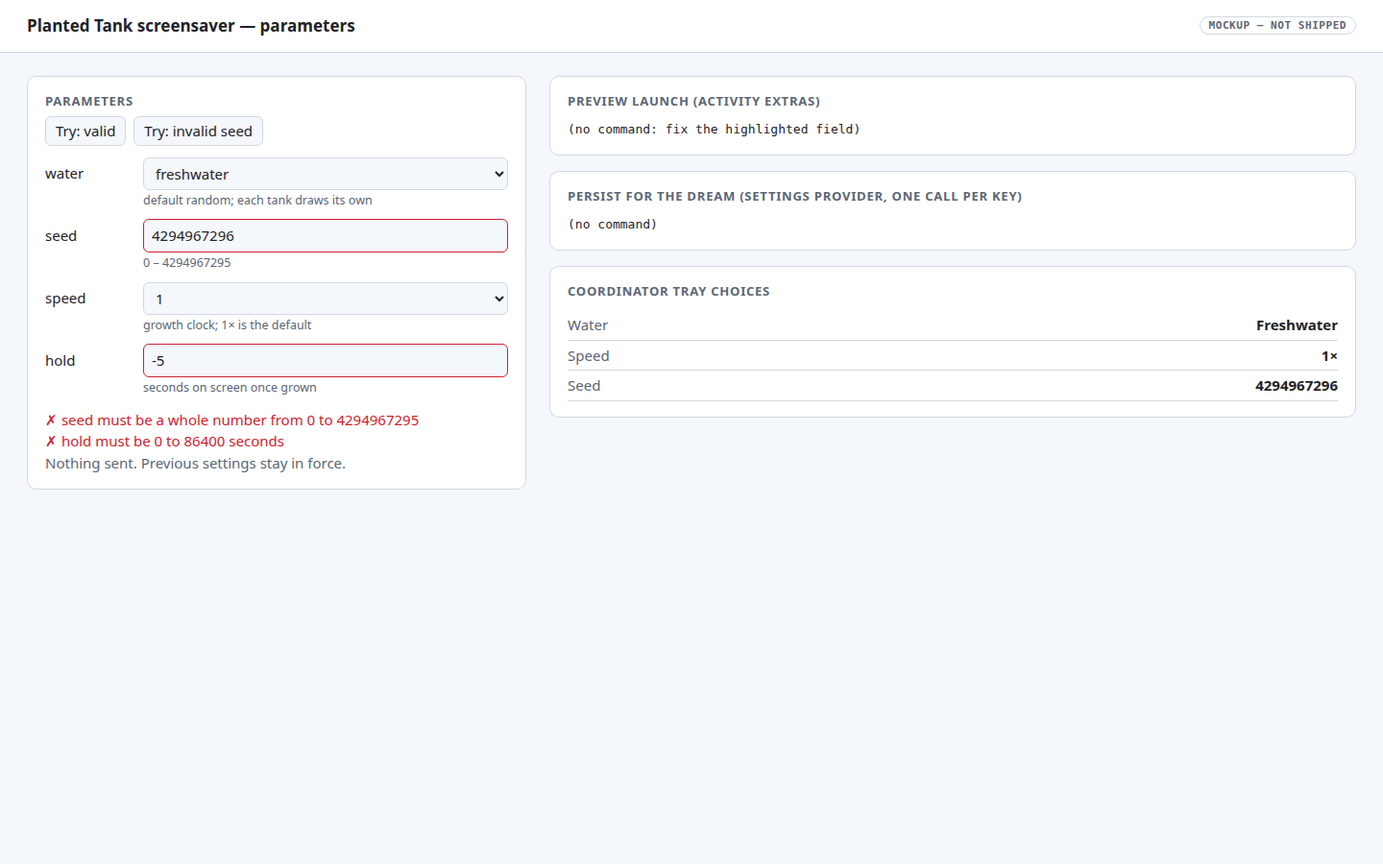
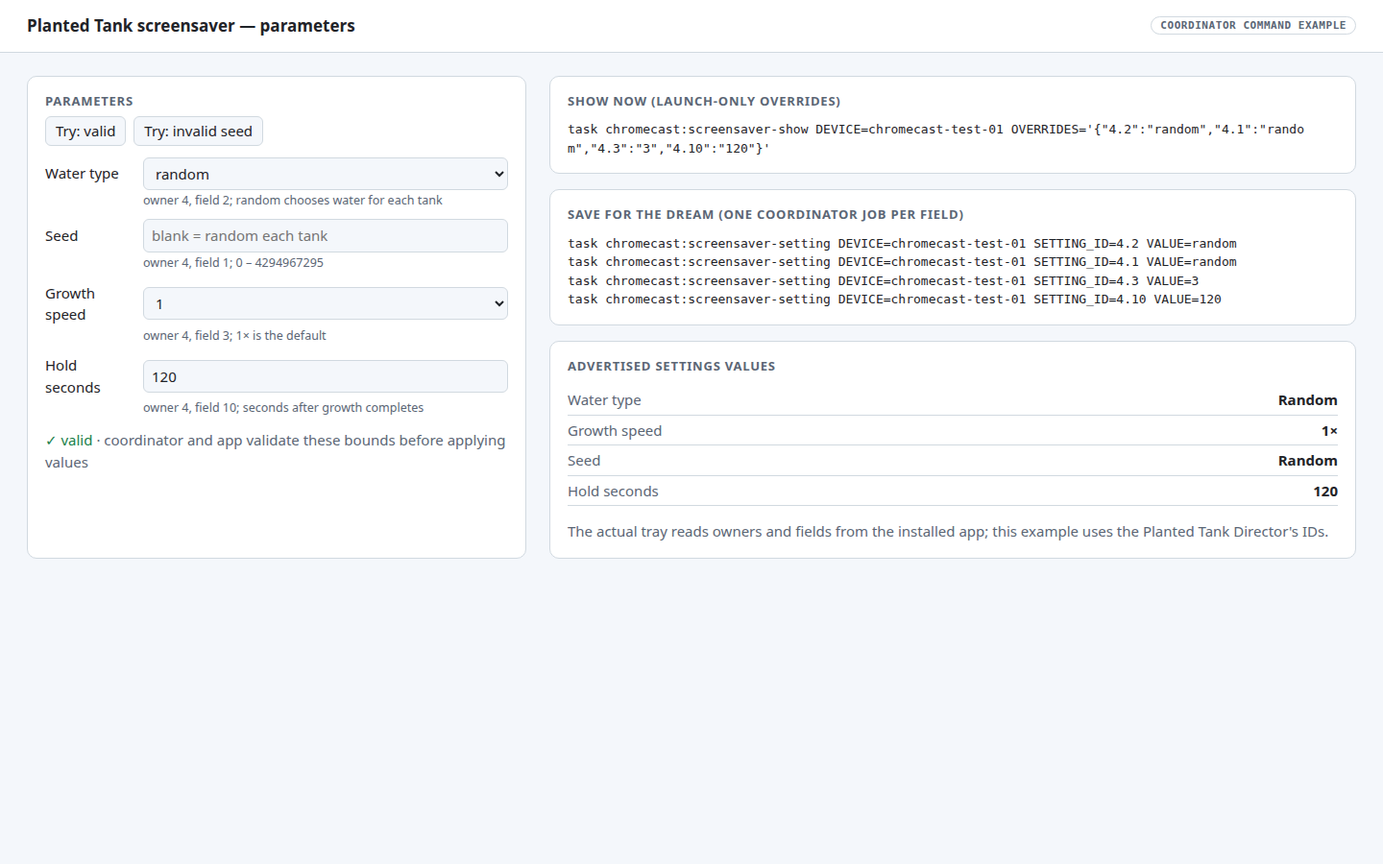
docs: refresh planted tank verification status

diff --git a/docs/plans/2026-10-21-planted-tank-screensaver/parameters.html b/docs/plans/2026-10-21-planted-tank-screensaver/parameters.html
@@ -12,32 +12,34 @@ code,pre{font:13px/1.5 ui-monospace,SFMono-Regular,Menlo,monospace}
 .row{display:grid;grid-template-columns:90px 1fr;gap:4px 12px;align-items:center;margin-bottom:10px}.row small{grid-column:2;color:var(--muted);margin-top:-2px}
 input:not([type=checkbox]),select{font:inherit;background:var(--bg);color:var(--fg);border:1px solid var(--line);border-radius:6px;padding:5px 8px;width:100%}input.bad{border-color:var(--bad)}
 pre{margin:0;white-space:pre-wrap;word-break:break-all}button{font:inherit;background:var(--bg);color:var(--fg);border:1px solid var(--line);border-radius:6px;padding:3px 10px;cursor:pointer}.chk{display:flex;gap:8px;align-items:center}.ok{color:var(--ok)}.bad{color:var(--bad)}
-.tr{display:flex;justify-content:space-between;padding:4px 0;border-bottom:1px solid var(--line)}.tr b{color:var(--fg)}</style></head><body><header><h1>Planted Tank screensaver — parameters</h1><span class="tag">MOCKUP — NOT SHIPPED</span></header><main style="display:grid;grid-template-columns:520px 1fr;gap:24px">
+.tr{display:flex;justify-content:space-between;padding:4px 0;border-bottom:1px solid var(--line)}.tr b{color:var(--fg)}</style></head><body><header><h1>Planted Tank screensaver — parameters</h1><span class="tag">COORDINATOR COMMAND EXAMPLE</span></header><main style="display:grid;grid-template-columns:520px 1fr;gap:24px">
 <div class="card"><h2>Parameters</h2><div style="display:flex;gap:8px;margin:-4px 0 12px"><button id="tv" type="button">Try: valid</button><button id="ti" type="button">Try: invalid seed</button></div>
- <div class="row"><label for="water">water</label><select id="water"><option>random</option><option>freshwater</option><option>saltwater</option></select><small>default random; each tank draws its own</small></div>
- <div class="row"><label for="seed">seed</label><input id="seed" placeholder="blank = random each tank" inputmode="numeric"><small>0 – 4294967295</small></div>
- <div class="row"><label for="speed">speed</label><select id="speed"><option>0.25</option><option>0.5</option><option selected>1</option><option>2</option><option>4</option><option>8</option></select><small>growth clock; 1× is the default</small></div>
- <div class="row"><label for="hold">hold</label><input id="hold" value="120"><small>seconds on screen once grown</small></div>
+ <div class="row"><label for="water">Water type</label><select id="water"><option>random</option><option>freshwater</option><option>saltwater</option></select><small>owner 4, field 2; random chooses water for each tank</small></div>
+ <div class="row"><label for="seed">Seed</label><input id="seed" placeholder="blank = random each tank" inputmode="numeric"><small>owner 4, field 1; 0 – 4294967295</small></div>
+ <div class="row"><label for="speed">Growth speed</label><select id="speed"><option>0.25</option><option>0.5</option><option selected>1</option><option>2</option><option>4</option><option>8</option></select><small>owner 4, field 3; 1× is the default</small></div>
+ <div class="row"><label for="hold">Hold seconds</label><input id="hold" value="120"><small>owner 4, field 10; seconds after growth completes</small></div>
  <p id="err" style="margin:12px 0 0;min-height:44px"></p></div>
 <div style="display:grid;gap:16px;align-content:start">
- <div class="card"><h2>Preview launch (activity extras)</h2><pre id="am"></pre></div>
- <div class="card"><h2>Persist for the Dream (settings provider, one call per key)</h2><pre id="cc"></pre></div>
- <div class="card"><h2>Coordinator tray choices</h2><div id="tray" class="muted"></div></div>
+ <div class="card"><h2>Show now (launch-only overrides)</h2><pre id="am"></pre></div>
+ <div class="card"><h2>Save for the Dream (one coordinator job per field)</h2><pre id="cc"></pre></div>
+ <div class="card"><h2>Advertised Settings values</h2><div id="tray" class="muted"></div><p class="muted" style="margin-bottom:0">The actual tray reads owners and fields from the installed app; this example uses the Planted Tank Director's IDs.</p></div>
 </div></main><script>
-const $=i=>document.getElementById(i);const PKG='org.worldfoundry.plantedtank';
+const $=i=>document.getElementById(i);const DEVICE='chromecast-test-01';
+const waterIds={random:'random',freshwater:'0',saltwater:'1'};
+const speedIds={'0.25':'1','0.5':'2','1':'3','2':'4','4':'5','8':'6'};
 function intOk(v,lo,hi){return /^\d{1,10}$/.test(v)&&+v>=lo&&+v<=hi}
 function draw(){const e=[],w=$('water').value,seed=$('seed').value.trim(),hold=$('hold').value.trim();
  ['seed','hold'].forEach(i=>$(i).classList.remove('bad'));
  if(seed&&!intOk(seed,0,4294967295)){e.push('seed must be a whole number from 0 to 4294967295');$('seed').classList.add('bad')}
  if(!intOk(hold,0,86400)){e.push('hold must be 0 to 86400 seconds');$('hold').classList.add('bad')}
- const t=[['Water',w==='random'?'Random':w[0].toUpperCase()+w.slice(1)],['Speed',$('speed').value+'×'],['Seed',seed||'Random (CLI only)']];
- $('tray').innerHTML=t.map(r=>'<div class="tr"><span>'+r[0]+'</span><b>'+r[1]+'</b></div>').join('');
- if(e.length){$('err').innerHTML='<span class="bad">✗ '+e.join('<br>✗ ')+'</span><br><span class="muted">Nothing sent. Previous settings stay in force.</span>';$('am').textContent='(no command: fix the highlighted field)';$('cc').textContent='(no command)';return}
- $('err').innerHTML='<span class="ok">✓ valid</span> <span class="muted">· same checks run on the device, which rejects the call with the same message</span>';
- const kv=[['water',w],['speed',$('speed').value],['hold',hold]];if(seed)kv.push(['seed',seed]);
- const flag=([k,v])=>k==='seed'?'--el seed '+v:k==='speed'?'--ef speed '+v:k==='water'?'--es water '+v:'--ei '+k+' '+v;
- $('am').textContent='adb shell am start -n '+PKG+'/.PlantedTankActivity \\\n  '+kv.map(flag).join(' \\\n  ');
- $('cc').textContent=kv.map(([k,v])=>'adb shell content call --uri content://'+PKG+'.settings \\\n  --method setSetting --arg '+k+':'+v).join('\n');}
+ if(e.length){$('err').innerHTML='<span class="bad">✗ '+e.join('<br>✗ ')+'</span><br><span class="muted">Nothing sent. Previous settings stay in force.</span>';$('tray').textContent='Invalid values';$('am').textContent='(no command: fix the highlighted field)';$('cc').textContent='(no command)';return}
+ const values=[['Water type',w==='random'?'Random':w[0].toUpperCase()+w.slice(1)],['Growth speed',$('speed').value+'×'],['Seed',seed||'Random'],['Hold seconds',hold]];
+ $('tray').textContent='';values.forEach(([label,value])=>{const row=document.createElement('div'),name=document.createElement('span'),shown=document.createElement('b');row.className='tr';name.textContent=label;shown.textContent=value;row.appendChild(name);row.appendChild(shown);$('tray').appendChild(row)});
+ $('err').innerHTML='<span class="ok">✓ valid</span> <span class="muted">· coordinator and app validate these bounds before applying values</span>';
+ const wire=[['4.2',waterIds[w]],['4.1',seed||'random'],['4.3',speedIds[$('speed').value]],['4.10',hold]],overrides={};
+ wire.forEach(([id,value])=>{overrides[id]=value});
+ $('am').textContent='task chromecast:screensaver-show DEVICE='+DEVICE+' OVERRIDES=\''+JSON.stringify(overrides)+'\'';
+ $('cc').textContent=wire.map(([id,value])=>'task chromecast:screensaver-setting DEVICE='+DEVICE+' SETTING_ID='+id+' VALUE='+value).join('\n');}
 document.querySelectorAll('input,select').forEach(e=>e.addEventListener('input',draw));
 $('tv').onclick=()=>{$('water').value='saltwater';$('seed').value='713';$('speed').value='2';draw()};
 $('ti').onclick=()=>{$('water').value='freshwater';$('seed').value='4294967296';$('hold').value='-5';draw()};draw();</script></body></html>

diff --git a/docs/plans/2026-10-21-planted-tank-screensaver.md b/docs/plans/2026-10-21-planted-tank-screensaver.md
@@ -4,7 +4,7 @@ Date: 2026‑10‑21. Status (2026‑10‑22): **Phases 0–4b implemented; offl
 
 ## Context
 
-Two screensaver apps ship from `android/screensaver`: **Aquarium** (eight tanks, one drawn per Dream start) and **Seahorse Grid** (its own flavor, own icon, own one-level bundle). Will wants a third: **the planted tank on its own, with plants only and no animals**, growing from seedlings to a full canopy, staying up for two minutes, then starting a different tank. The icon and the TV banner both carry the World Foundry badge, like the other two.
+`android/screensaver` now builds three apps: **Aquarium** (eight tanks, one drawn per Dream start), **Seahorse Grid** (its own one-level bundle), and **Planted Tank** (plants only, no animals). Planted Tank grows from seedlings to a full canopy, stays up for two minutes, then starts a different tank. Its icon and TV banner carry the World Foundry badge. Planted Tank device verification remains pending.
 
 What is true today:
 
@@ -13,7 +13,7 @@ What is true today:
 - A Dream has **no command line**. The old `--plant-seed`, `--plant-water` and `--plant-speed` switches were deliberately **removed** ([command-line-switches.md](../command-line-switches.md#baseline-runtime-options)); plant values now come from the level's cooked `PlantedTankSettings` catalog, and "no replacement launch aliases" are provided. Parameters therefore have to arrive another way (see **Parameters**).
 - **The level can end itself.** A level writing mailbox `END_OF_LEVEL` (1905) = 1 ends it, and the `cd.iff` meta-loop in `game.cc` reloads. On the Dream the next level is forced to the app's own index (`_overrideLevelNum`, `game.cc:300`), so `LEVEL_TO_RUN` (5000) is not even consulted; it matters only for the desktop `task run`. Only `_desiredLevelNum` survives a reload: **a level's own mailboxes, including 6000 and up, are new each time** (S1/S2 corrected the troubleshooting doc on this). Never write 0 to `END_OF_LEVEL`. The planted level calls `plant-register`, which calls `planted::enter()`, on every load, so a reload **is** a new tank.
 - The engine-side growth age and speed are native state. Forth cannot read them; it only passes the frame `dt` to `plant-tick`. So the level needs **its own clock**, which Will also suggested.
-- The screensaver host (`android/screensaver/src/main/cpp/dream_host.cc`) owns `WFAndroidPumpEvents()`, which the engine calls on the game thread once per frame. Today it is empty. That is a per-frame, race-free place for host code to run, with no engine edit.
+- The screensaver host (`android/screensaver/src/main/cpp/dream_host.cc`) owns `WFAndroidPumpEvents()`, which the engine calls on the game thread once per frame. It now clears the engine drawer and pumps the planted bridge there, so the host handles each reload without a further engine edit.
 - A pending TODO item says the cooked planted levels carry the **seahorse actor‑30 crash**. This plan is not affected, because the screensaver level has no animals; the item stays open for the Aquarium app.
 
 ## Approach
@@ -106,9 +106,9 @@ task chromecast:screensaver-show DEVICE=chromecast-test-01 OVERRIDES='{"4.2":"1"
 task chromecast:screensaver-setting DEVICE=chromecast-test-01 SETTING_ID=4.2 VALUE=1
 ```
 
-[![Command builder: rejected-input state](2026-10-21-planted-tank-screensaver/parameters.png)](2026-10-21-planted-tank-screensaver/parameters.html)
+[![Coordinator command example with default values](2026-10-21-planted-tank-screensaver/parameters.png)](2026-10-21-planted-tank-screensaver/parameters.html)
 
-The page opens on the defaults; the thumbnail shows the **rejected** state, where nothing is sent and the previous settings stay in force. [Open the interactive command builder](2026-10-21-planted-tank-screensaver/parameters.html).
+The page opens on the defaults and shows coordinator commands for one-run overrides or saved Dream values. Choose **Try: invalid seed** to see the rejected state, where no command is produced and previous settings stay in force. [Open the interactive command builder](2026-10-21-planted-tank-screensaver/parameters.html).
 
 ## Lifecycle and timing
 
@@ -138,14 +138,14 @@ Tiers are dispatch inputs (ranking is done inline, never delegated). Torn calls 
 | ~~0d~~ | ~~**Spike S3:** where is the seed/settings strip drawn, and can the variant drop it? Which camera gives the 85% framing?~~ **Done** | T3 | bounded search plus a level edit |
 | ~~0e~~ | ~~Maturity sweep over 200 seeds in both waters~~ **Done** (`f793c3d1`): bound 195 s | T2 | one harness, known formula |
 | ~~0f~~ | ~~**Spike S4:** plants-only variant~~ **Done:** a generator flag, not a text strip ([S4](2026-10-21-planted-tank-screensaver/spikes/S4.md)) | T3 | bounded investigation |
-| ~~1~~ | ~~Level variant~~ **Done** (`494ed19e`): `ANIMALS` flag in `generate.py`; `wflevels/planted_tank_screensaver/` (30 actors, wide camera at y -8.25, fog 5.76 / 28.8, `PERM` 1 MB, `ROOM` 24 MB); the catalog attached (`Hold seconds` id 10, no Seahorses or Greeting); the Director cycle in `planted_cycle.fth`; `build-aquarium-screensaver-levels.py planted`; 26 tests pass, including a zForth simulation of the real Director script. **Not yet run on the engine or a device** | T3 | multi-file against this plan |
+| ~~1~~ | ~~Level variant~~ **Done** (`494ed19e`): `ANIMALS` flag in `generate.py`; `wflevels/planted_tank_screensaver/` (30 actors, wide camera at y -8.25, fog 5.76 / 28.8, `PERM` 1 MB, `ROOM` 24 MB); the catalog attached (`Hold seconds` id 10, no Seahorses or Greeting); the Director cycle in `planted_cycle.fth`; `build-aquarium-screensaver-levels.py planted`; zForth simulation and desktop engine cycles pass. **Device run pending.** | T3 | multi-file against this plan |
 | ~~2a~~ | ~~Java: `PlantedConfig`, `PlantedSettings`, provider, activity, Dream, manifest, strings, `TankPlayer.configure`~~ **Done** (`8876f6cd`): 116 checks pass; the three-flavor Java compile passes. The `planted` block in `build.gradle.kts` is in the working tree but **uncommitted** because it overlaps Will's uncommitted flavor block | T2 | one module, clear spec |
 | ~~2c~~ | ~~Engine: the launch-override table~~ **Done** (`f3c3ff16`, approved by Will 2026‑10‑21): `wfprops::LaunchOverrides` with the `applications()` counter, one hook line in `level.cc`, the `--property=` desktop flag, `task test-launch-overrides`. Verified end to end on a real level in the container | T3 | design settled in S1‑S2 |
-| ~~2b~~ | ~~Native host~~ **Done** (`eea849fe`): `planted_bridge.cc/.h` (parsing, defaults, `mix32`, the tank sequencer and the counter watcher, free of Android and engine includes), the JNI `nativeConfigure`, first-tank overrides before `HALStart`, per-tank overrides from the pump. 113 unit checks pass (`task test-planted-bridge`); `assemblePlantedDebug` for **arm64-v8a only** builds and links, which also compiled the engine hook natively. **Not yet run on a device** | T3 | uses the new table; no engine state touched |
+| ~~2b~~ | ~~Native host~~ **Done** (`eea849fe`): `planted_bridge.cc/.h` (parsing, defaults, `mix32`, the tank sequencer and the counter watcher, free of Android and engine includes), the JNI `nativeConfigure`, first-tank overrides before `HALStart`, per-tank overrides from the pump. 113 unit checks pass (`task test-planted-bridge`); the Planted APK now builds and links for **both arm64-v8a and armeabi-v7a**. **Device run pending.** | T3 | uses the new table; no engine state touched |
 | ~~3~~ | ~~Icon and banner with the badge~~ **Done** (`d79cabcf`, then final art in `c181ce6a`): a real capture of the plants-only level (saltwater, seed 713, `Initial age` 194, 1920×1080 under Xvfb, seed strip and FPS counter masked, resized to 1280×720), the icon crop `(430, 200, 790, 560)`, 13 icon tests pass. Desktop software-GL render, not a device capture. `gen-screensaver-android-icons.py` is Will's untracked file and carries the edit uncommitted | T2 | follows the existing Seahorse recipe |
-| ~~4a~~ | ~~`task` entries, coordinator guide section, README~~ **Done** (`3d56263d`): `build-planted-level`, `build-planted-apk` (both ABIs), `test-planted-screensaver`; dry-run only | T1 | recipes |
+| ~~4a~~ | ~~`task` entries, coordinator guide section, README~~ **Done** (`3d56263d`): `build-planted-level`, `build-planted-apk` (both ABIs), `test-planted-screensaver`; offline build and test tasks pass | T1 | recipes |
 | 4b | **Generic `Settings` class support in the coordinator and APK contract.** Implemented and offline verified: the coordinator discovers the selected app's declared settings provider, validates bounded OAD-derived owner/field metadata, renders supported show-as types, writes any advertised field and verifies readback without app-specific settings branches. Declarative package admission for `org.worldfoundry.plantedtank`, generic Dream preview and launch parameters, and the screensaver `capture()` log boundary are included. The APK catalog/provider supports the generic field contract. **Shared coordinator deployed; device verification pending.** | T5 | cross-repository contract and shared infrastructure; device runs use `task chromecast:*` |
-| 5 | Device verification **with a two-ABI build** (the Chromecasts report `armeabi-v7a`; the 2b check built `arm64-v8a` only), soak, natural-idle check through the coordinator | T3 | procedure with judgment about results |
+| 5 | **Pending device availability:** install the frozen two-ABI APK, verify generic Settings and launch overrides, then check cycle timing, framing, a 50-tank soak and natural idle through the coordinator | T3 | procedure with judgment about results |
 
 Phase 2c comes before 2b. **Will approved the generic seam on 2026‑10‑21** (earlier: "i'd want it to be more generic than just plant settings"; answer to the build-it question: "generic"). I took "generic" to mean the data table, not the 5-line host callback. S4 may change Phase 1.
 
@@ -155,7 +155,7 @@ Phase 2c comes before 2b. **Will approved the generic seam on 2026‑10‑21** (
 
 **S3, strip and framing (done, [write-up](2026-10-21-planted-tank-screensaver/spikes/S3.md)).** Two of its findings change the plan; I re-checked both against the source.
 
-- **The seed strip cannot be removed without an engine edit.** The engine draws it every frame while a tank is active (`wfsource/source/game/plant_ui.cc:12`). No catalog field, object flag, Director script or mailbox controls it, and growth needs the same `active` flag. The screensaver's own HUD switch does not reach it: `WFAndroidSetHudEnabled(0)` removes only the touch controls and the FPS counter, because the Android overlay drawer ignores that flag (`android_window.cc:502`, per the spike). **The shipped Aquarium Dream already shows this strip** on its Planted choice, with "Hold A: settings" text on a Dream that takes no input. S3's smallest fix is a plant-specific `label` flag in `plant_settings.h` and `plant_ui.cc` (three lines). Following Will's "more generic" direction, my proposal is instead to make the Android overlay drawer **respect the existing `gHudEnabled` switch**, which the screensaver host already sets to 0: one generic change that fixes both apps and adds no plant-specific state. It needs Will's approval; until then the plan has no `label` parameter and the strip stays on. **Resolved 2026‑10‑21, with no engine edit.** Will approved the `gHudEnabled` change, but tracing it showed that `native_app_entry.cc` already sets that flag to 0 on every TV build, so honouring it in the drawer would also hide the TV level selector and settings panels. Instead the strip is drawn only while `levelmenu::Drawer()` is set (`display.cc:1280`), and the Dream host owns `WFAndroidPumpEvents()`, so `dream_host.cc` now clears the drawer every frame. This hides the engine overlay in every passive host, fixes the shipped Aquarium and Seahorse Dreams too, and a null drawer already falls back to starting level 0 (`game.cc`). Guard: `tests/test_screensaver_overlay.py` (3 tests pass). **Not yet compiled or seen on a device**; the next APK build and Phase 1 capture confirm it.
+- **The seed strip cannot be removed without an engine edit.** The engine draws it every frame while a tank is active (`wfsource/source/game/plant_ui.cc:12`). No catalog field, object flag, Director script or mailbox controls it, and growth needs the same `active` flag. The screensaver's own HUD switch does not reach it: `WFAndroidSetHudEnabled(0)` removes only the touch controls and the FPS counter, because the Android overlay drawer ignores that flag (`android_window.cc:502`, per the spike). **The shipped Aquarium Dream already shows this strip** on its Planted choice, with "Hold A: settings" text on a Dream that takes no input. S3's smallest fix is a plant-specific `label` flag in `plant_settings.h` and `plant_ui.cc` (three lines). Following Will's "more generic" direction, my proposal is instead to make the Android overlay drawer **respect the existing `gHudEnabled` switch**, which the screensaver host already sets to 0: one generic change that fixes both apps and adds no plant-specific state. It needs Will's approval; until then the plan has no `label` parameter and the strip stays on. **Resolved 2026‑10‑21, with no engine edit.** Will approved the `gHudEnabled` change, but tracing it showed that `native_app_entry.cc` already sets that flag to 0 on every TV build, so honouring it in the drawer would also hide the TV level selector and settings panels. Instead the strip is drawn only while `levelmenu::Drawer()` is set (`display.cc:1280`), and the Dream host owns `WFAndroidPumpEvents()`, so `dream_host.cc` now clears the drawer every frame. This hides the engine overlay in every passive host, fixes the shipped Aquarium and Seahorse Dreams too, and a null drawer already falls back to starting level 0 (`game.cc`). Guard: `tests/test_screensaver_overlay.py` (3 tests pass). The two-ABI APK now compiles; device capture remains pending.
 - **Framing is a text substitution, as hoped.** The wide camera sits at `y = -12`. Moving it to `y = -8.25` (same x, z and look-at) makes the tank 90.0% of the frame width and 71.3% of its height at 16:9, with a 5% margin each side and nothing cropped; the 85% limit is `y = -8.638`. The model reproduces the device capture (predicted 57.4% × 45.5%, measured 57.4% × 45.4%). The builder replaces `-12.0000000000000000(1.15.16)` in the `cs_wide` and `Camera` blocks (`aquarium_plants.lev` lines 130 and 655, the only hits) and asserts one hit per block; leaving `Camera` unchanged would add a one-second pan on start. Moving in removes some fog (start distance 9), so scale both fog distances by about 0.64 to keep today's look. The camera field of view is ignored by the engine (fixed 60° vertical), so position is the only lever. TV overscan above about 5% would clip the walls, so Phase 1 takes a device capture to confirm.
 - **Smaller facts.** The screensaver stays on the wide camera, since only a native tap switches cameras and the Dreams take no input; `PlantedTankActivity` must not add an input path. The level has no QR code or pairing prompt.
 
@@ -163,7 +163,7 @@ Phase 2c comes before 2b. **Will approved the generic seam on 2026‑10‑21** (
 
 - **Use a generator flag.** No animal switch exists: `KIND=='plants'` always builds the urchin, the goby, 12 seahorses, posts and rocks (`generate.py:209-218, 242-287, 316-319`); only the water type chooses urchin or goby, at runtime. A text strip is unsafe: actor indices follow `.lev` order and the scripts bake them in as numbers (`0 69 plant-register`, `tk-cam-close 81`), so removing animals moves the plant chunks from 69‑76 to 18‑25 and `cs_close` from 81 to 30, and **a wrong index fails silently** (`plant-step` skips out-of-range actors).
 - **A Player object is required:** `Level::reset()` asserts on it. Keep an invisible hull with a script that only writes `0 INDEXOF_INPUT`, as the other tanks do. No camera follows the Player in the level data; only Forth moves the close camera, which a Dream never selects.
-- **New finding: the shipped screensaver variant has no settings catalog.** `aquarium_plants-standalone.iff` holds `PlantedTankSettings` and two `RPRP` tags; `aquarium_plants_screensaver-standalone.iff` and `aquarium-screensaver-cd.iff` hold none, because `build-aquarium-screensaver-levels.py:62-87` never calls `build-object-properties.py`. I confirmed the counts on disk. So the **Aquarium Dream's Planted choice runs hard-coded defaults and is always freshwater**, and the launch-override table would have nothing to override. Phase 1 attaches the catalog for the new level; the same one-step fix for the Aquarium is a separate TODO item.
+- **Finding at the time of S4: the Aquarium screensaver variant had no settings catalog.** `aquarium_plants-standalone.iff` held `PlantedTankSettings` and two `RPRP` tags; the screensaver variant and bundle held none. The Aquarium Dream's Planted choice therefore used hard-coded freshwater defaults. The separate build-script fix now attaches that catalog; device verification of the rebuilt Aquarium APK remains pending.
 - **Memory:** keep the 24 MB `ROOM` pool (it is for the plants); `PERM` (6 MB, grown for seahorse rigs) can drop to about 1 MB, measured in Phase 5. Remove the Seahorses and Greeting fields rather than cooking them to 0, and do not use `plant_settings_catalog.py` on this variant (it is hard-wired to `aquarium_plants`).
 - **Framing becomes config:** `generate.py:368` honours `C.WIDE_CAMERA` only for the arowana, so Phase 1 widens that condition. S3's text substitution on the generated `.lev` remains a fallback.
 
@@ -190,7 +190,7 @@ Phase 2c comes before 2b. **Will approved the generic seam on 2026‑10‑21** (
 - **The growth clock drifts from the native age** if `tick`'s rules change. Mitigation: the Forth clock copies `dt` clamping and speed values from `plant_settings.h`, and a test fails when `speedValue` or the 0.2 s clamp changes.
 - **Reload cost and leaks.** Each reload rebuilds the plant meshes. The clumps plan measured repeated entries steady in one process (PSS spread under 4 MiB); the soak in Phase 5 repeats that for this build.
 - **The engine edit affects every level's load path.** Mitigation: the table is empty unless a host sets it, so other apps are unchanged; it is one line in `level.cc`; unit tests cover apply, validation reject, read-only override, unknown key and repeated loads. It is keyed by name, so it moves to OAS unchanged ([runtime object editing](2026-10-16-runtime-object-editing.md)).
-- **Device availability.** Cast1 is `recovery-required` and cast2 `needs-local-setup` as of 2026‑10‑19; Phase 5 waits for the coordinator, and the frozen APK is submitted through `task chromecast:*`, never raw `adb` against a held device.
+- **Device availability.** Both test TVs needed local setup after the 2026‑10‑22 coordinator deployment, and Will reported neither available today. Phase 5 waits for a device; submit the frozen APK through `task chromecast:*`, never raw `adb` against a shared TV.
 
 ## Verification
 
@@ -244,8 +244,8 @@ Build, level and test steps run in the project's containers (`wf-blender:local` 
     frozen: planted-tank-debug.apk 1515224f…28ff, aquarium-debug.apk 3c54d01f…f853, seahorse-debug.apk 4755c65f…bc18
     ```
 
-    **PASS** for the build: all three flavors build for both ABIs, and the 32-bit `libwf_dream.so` with `planted_bridge.cc` compiles and links with no change. The Seahorse bundle is byte-identical. The Aquarium bundle **is not** identical to the 2026‑10‑19 APK, by design: it is the bundle rebuilt today with the Planted settings catalog (TODO "Aquarium screensaver's Planted choice has no settings catalog"), and the APK carries exactly that rebuilt file. Build log and frozen APKs: `/home/will/tmp/planted-verify/phase5/`.
-7. **Parameters on a device.** Through the coordinator: `am start` with `water=saltwater seed=713` logs `seed=713 water=saltwater`; an invalid seed (`4294967296`) is rejected with a message and changes nothing; `content call … setSetting water:saltwater` then `getCapabilities` returns the new value, base64-decoded.
[1 lines of base64/hex data omitted]
+7. **Parameters on a device.** Install the frozen candidate through the coordinator, then use `task chromecast:screensaver-show DEVICE=chromecast-test-01 OVERRIDES='{"4.2":"1","4.1":"713"}'` to check a one-run saltwater tank with seed 713. Check that an invalid seed (`4294967296`) is rejected without changing saved settings. Save saltwater with `task chromecast:screensaver-setting DEVICE=chromecast-test-01 SETTING_ID=4.2 VALUE=1`, then read back the advertised Settings values through the coordinator.
 
     ```
     $ task chromecast:submit WORKFLOW=install DEVICE=chromecast-test-01 -- /home/will/tmp/planted-verify/phase5/frozen/planted-tank-debug.apk
@@ -253,13 +253,13 @@ Build, level and test steps run in the project's containers (`wf-blender:local` 
     task: Failed to run task "chromecast:submit": exit status 1
     ```
 
-    **NOT RUN — blocked on Phase 4b.** The coordinator rejects the package before upload ([transcript](2026-10-21-planted-tank-screensaver/phase5/install-cast1-rejected.txt)). The coordinator **does** keep its own package list, `scripts/wf_device/plugins/android/applications.json`, which `batching.py:61` and `client.py:617` read. It also has no workflow that passes activity extras or calls a third-party settings authority, and the guide forbids raw Chromecast `adb` ("downtime grants no fallback"), so the `adb` lines in **Parameters** cannot be used on these TVs today.
+    **NOT RUN on the deployed release — device unavailable.** The rejection above is historical evidence from before Phase 4b ([transcript](2026-10-21-planted-tank-screensaver/phase5/install-cast1-rejected.txt)). The deployed coordinator now admits `org.worldfoundry.plantedtank`, reads its declared Settings provider, accepts owner/field writes and launch-only overrides, and handles its Dream. Use the coordinator workflows shown under **Parameters** when a test TV is available.
 8. **Default timing at 1×.** One uninterrupted cycle on a device: reload-to-reload equals the bound plus 120 s within 5 s.
 
-    **NOT RUN** — same block as step 7. The device frame rate during a planted tank is not measured either, so whether level time equals wall time on the TV (it does only above 10 FPS) is still open.
+    **NOT RUN — device unavailable.** The device frame rate during a planted tank is not measured either, so whether level time equals wall time on the TV (it does only above 10 FPS) is still open.
 9. **Soak.** 50 tanks at 8× with hold 5 on a device: the same process id throughout, no crash, and PSS spread under 4 MiB after warm-up.
 
-    **NOT RUN** — same block as step 7; the coordinator also has no way to set `speed` or `hold` for an unregistered app. `PERM` 1 MB is not checked on a device.
+    **NOT RUN — device unavailable.** The coordinator can now set `speed` and `hold` through the advertised Settings fields; `PERM` 1 MB is not yet checked on a device.
 10. **Icon and banner.** `python3 scripts/gen-screensaver-android-icons.py` writes the planted resources; the pixel test finds the badge lower-right in the banner and inside the safe circle of the foreground; the Apps row capture shows the banner.
 
     ```
@@ -269,10 +269,10 @@ Build, level and test steps run in the project's containers (`wf-blender:local` 
     97 passed in 14.36s
     ```
 
-    **PASS** for the pixel test (`tests/test_planted_icons.py`, on the committed resources; the generator was not re-run). **NOT RUN** for the Apps row capture: the APK cannot be installed (step 7).
+    **PASS** for the pixel test (`tests/test_planted_icons.py`, on the committed resources; the generator was not re-run). **NOT RUN** for the Apps row capture: no device was available after Phase 4b deployment.
 11. **Natural idle.** `task chromecast:submit … APP=plantedtank WORKFLOW=dream-check` captures a growing tank in the real Dream.
 
-    **NOT RUN.** Besides the missing `applications.json` entry, `dream-check` admits only the apps in its fixed table (`plugins/android/dream_check.py:12-15`: `screensaver` and `seahorse-screensaver`; any other app raises `dream-check-requires-screensaver-app`), and the Dream settings it writes come from `conditions.py` (`DREAM_SETTINGS`, `SEAHORSE_DREAM_SETTINGS`, `apply_dream_settings`).
+    **NOT RUN — device unavailable.** The deployed coordinator now registers the Planted Dream and `dream-check` uses the registered Dream component and generic Dream condition handling. Its natural idle behavior still needs device evidence.
 12. **No regression.** The existing screensaver tests (`tests/test_seahorse_grid_level.py`, the aquarium bundle-order check) still pass.
 
     ```
@@ -286,7 +286,7 @@ Build, level and test steps run in the project's containers (`wf-blender:local` 
                               0 asserts after this run's "Opening cd.iff" (2026-10-21T14:46:59Z; job started 14:46:35Z)
     ```
 
-    **PASS for the tests. On the device, Seahorse PASS; Aquarium launches and renders, but its check is recorded as FAIL.** Both apps start and draw on cast2: [Aquarium](2026-10-21-planted-tank-screensaver/phase5/cast2-aquarium-check.png) shows the clownfish tank with no seed strip, and [Seahorse](2026-10-21-planted-tank-screensaver/phase5/cast2-seahorse-check.png) shows the 6 × 4 grid. The Aquarium `plugin-error` comes from the check's log scan (`operations.py` `capture()`). It reads the last 4 MB of `wf.log` after the last `=== wf_game android_main` marker. The screensaver host never writes that marker, so the scan covers three days of earlier runs and trips on asserts from 2026‑10‑18. This run logged none. The installs replaced cast2's Aquarium (`3d09d225…` → `3c54d01f…`) and Seahorse Grid (`b1d3f5ae…` → `4755c65f…`) with these builds. `tests/test_aquarium_android.py` was not run: `wf-linux-test:local` has no `yaml` module. Evidence: `/home/will/tmp/planted-verify/phase5/regress-evidence/`.
+    **PASS for the tests. On the device, Seahorse PASS; Aquarium launches and renders, but its check was recorded as FAIL before the Phase 4b coordinator release.** Both apps start and draw on cast2: [Aquarium](2026-10-21-planted-tank-screensaver/phase5/cast2-aquarium-check.png) shows the clownfish tank with no seed strip, and [Seahorse](2026-10-21-planted-tank-screensaver/phase5/cast2-seahorse-check.png) shows the 6 × 4 grid. The Aquarium `plugin-error` came from the old check's log scan (`operations.py` `capture()`). It read the last 4 MB of `wf.log` after the last `=== wf_game android_main` marker. The screensaver host never writes that marker, so the scan covered three days of earlier runs and tripped on asserts from 2026‑10‑18. This run logged none. Phase 4b fixed the screensaver log boundary; a device rerun is still needed. The installs replaced cast2's Aquarium (`3d09d225…` → `3c54d01f…`) and Seahorse Grid (`b1d3f5ae…` → `4755c65f…`) with these builds. `tests/test_aquarium_android.py` was not run: `wf-linux-test:local` has no `yaml` module. Evidence: `/home/will/tmp/planted-verify/phase5/regress-evidence/`.
 13. **Launch-override table.** `task test-launch-overrides` (new, in the container) passes the unit tests; with the table empty, the existing runtime-property and level tests still pass unchanged.
 
     ```
@@ -305,7 +305,7 @@ Build, level and test steps run in the project's containers (`wf-blender:local` 
     Source: the Phase 2c report; the overrides were applied through the desktop flag in `wf_game` rebuilt in `wf-linux-test:local`.
 14. **Plants only.** The built level's actor map contains no urchin, goby or seahorse object, and a device capture shows plants and the tank only.
 
-    **PASS for the actor map** (`tests/test_planted_screensaver.py`, in the 97 passed of step 10: no `urchin|goby|seahorse|rainbow|rock` actor; the only `.lev` hits are the generated Forth constants). **NOT RUN for the device capture and the overscan check**: the APK cannot be installed (step 7).
+    **PASS for the actor map** (`tests/test_planted_screensaver.py`, in the 97 passed of step 10: no `urchin|goby|seahorse|rainbow|rock` actor; the only `.lev` hits are the generated Forth constants). **NOT RUN for the device capture and the overscan check**: no test TV was available after Phase 4b deployment.
 
 Results: _pending._
 

diff --git a/TODO.md b/TODO.md
@@ -4,7 +4,7 @@
 
 ### Platform / Display
 
-- [T4] **Planted Tank screensaver (third Dream).** New `planted` flavor, **plants only (no animals)**: one tank grows at 1× to its maturity bound (195 s), stays 2 min, then the level ends (`END_OF_LEVEL`) and reloads as a new seeded tank. Water, seed, speed and hold via `am start` extras and the settings provider; WF badge on icon and banner. Phase 0 done. Next: S4 (plants-only variant) and 2c, the approved generic launch-override table in `wfprops`. Rank T4: new engine seam plus a level variant and a native host. [plan](docs/plans/2026-10-21-planted-tank-screensaver.md)
+- [verify T3] **Planted Tank screensaver (third Dream).** The plants-only `planted` flavor, level cycle, badge art, generic Settings provider and coordinator support are implemented; the two-ABI APK and offline tests pass. The shared coordinator is deployed. Next: Phase 5 through `task chromecast:*` when a device is available—install the frozen APK, verify Settings writes and launch overrides, a natural Dream start, timing, framing and the 50-tank soak. Do not use raw ADB on the shared TVs. [plan](docs/plans/2026-10-21-planted-tank-screensaver.md)
 - [verify T2] **Aquarium screensaver's Planted choice has no settings catalog, so it is always freshwater.** Fixed: `attach_catalog()` in `scripts/build-aquarium-screensaver-levels.py` now attaches the canonical `aquarium_plants` catalog to the variant standalone before cdpack packs the bundle; the variant and the bundle each hold 2 `RPRP` tags and one `PlantedTankSettings` (was 0), guarded by `tests/test_aquarium_screensaver_catalog.py`. Left: install the rebuilt bundle and check on a device that saltwater now occurs (not yet checked on any device). Rank T2: a known one-step fix in one script. [evidence](docs/plans/2026-10-21-planted-tank-screensaver/spikes/S4.md)
 
 - [T3] **Multiple APKs per Chromecast command.** Extend coordinator batches from one request across devices to one job per app/device, then accept APK lists for install, check, profile, simpleperf and non-interactive record. Preserve reservations, cleanup and separate installed/launcher-verified results. Implemented and live; finish physical acceptance after coordinator recovery. [plan](docs/plans/2026-10-19-chromecast-multiple-apk-commands.md)

diff --git a/android/screensaver/README.md b/android/screensaver/README.md
@@ -35,13 +35,11 @@ Install, settings, and idle activation checks use the shared coordinator through
 | `hold` | seconds, 0 to 86400 | `120` |
 | `age`, `textures`, `sway` | developer keys: 0 to 240 s, true or false, true or false | `0`, `true`, `true` |
 
-Run now with activity extras (used for this run only, never saved), or save values for the Dream through the shell-only settings provider; a bad value is rejected with a message and changes nothing:
+On the shared TVs, use the coordinator for a launch-only override or to save a value for the Dream. The IDs come from the installed app's Settings catalog; here `4.2` is the Director's Water type, `4.1` its Seed and `4.3` its Growth speed (`4` means 2×). A rejected value changes nothing:
 
 ```sh
-adb shell am start -n org.worldfoundry.plantedtank/.PlantedTankActivity \
-    --es water saltwater --el seed 713 --ef speed 2
-adb shell content call --uri content://org.worldfoundry.plantedtank.settings \
-    --method setSetting --arg water:saltwater
+task chromecast:screensaver-show DEVICE=chromecast-test-01 OVERRIDES='{"4.2":"1","4.1":"713","4.3":"4"}'
+task chromecast:screensaver-setting DEVICE=chromecast-test-01 SETTING_ID=4.2 VALUE=1
 ```
 
 The provider also answers `getCapabilities`, `getSettings` and `resetSettings`. `getCapabilities` serves `assets/planted-settings.json` with the saved values filled in. `scripts/gen-settings-capabilities.py` generates that schema-2 file from the level's OAD-derived `settings.rprp` during `build_planted()`. It preserves the catalog owner and includes all eight fields; its show-as modifiers choose the UI type. The app adapter adds its `random` water policy, removes the unsupported Paused speed choice, and marks the derived Random seed on entry field read-only. Seed uses `random` as its unset value. The generated asset is gitignored, and the provider throws if it is missing. `task test-planted-screensaver` checks the catalog and runs `PlantedConfigTest` against a freshly generated asset.

diff --git a/docs/plans/.history/2026-10-21-planted-tank-screensaver.md b/docs/plans/.history/2026-10-21-planted-tank-screensaver.md
@@ -1,5 +1,7 @@
 | Date | Change |
 |------|--------|
+| [2026-10-22](https://github.com/wbniv/WorldFoundry/commit/167fa4ac) | docs: refresh planted tank verification status |
+| [2026-10-22](https://github.com/wbniv/WorldFoundry/commit/80f43e98) | Use generic Settings catalogs for screensaver controls |
 | [2026-10-21](https://github.com/wbniv/WorldFoundry/commit/91990750) | Planted Tank plan: Phase 4b now lists the coordinator registration entries |
 | [2026-10-21](https://github.com/wbniv/WorldFoundry/commit/848fd337) | Planted Tank plan: record Phase 5 device verification (blocked on coordinator registration) |
 | [2026-10-21](https://github.com/wbniv/WorldFoundry/commit/b2064b67) | Planted Tank plan: APK settings come from the OAD (settings-class objects, all fields) |
@@ -19,6 +21,14 @@
 | [2026-10-21](https://github.com/wbniv/WorldFoundry/commit/4266a44c) | Plan the Planted Tank screensaver |
 
 <!--history-meta v1
+167fa4ac	author	Will Norris
+167fa4ac	added	17
+167fa4ac	deleted	17
+167fa4ac	files	1
+80f43e98	author	Will Norris
+80f43e98	added	9
+80f43e98	deleted	9
+80f43e98	files	1
 91990750	author	Will Norris
 91990750	added	1
 91990750	deleted	1

diff --git a/android/screensaver/.history/README.md b/android/screensaver/.history/README.md
@@ -1,5 +1,6 @@
 | Date | Change |
 |------|--------|
+| [2026-10-22](https://github.com/wbniv/WorldFoundry/commit/80f43e98) | Use generic Settings catalogs for screensaver controls |
 | [2026-10-21](https://github.com/wbniv/WorldFoundry/commit/d1676c33) | Planted Tank: generate the APK's coordinator settings from the OAD |
 | [2026-10-21](https://github.com/wbniv/WorldFoundry/commit/3d56263d) | Planted Tank Phase 4a: Taskfile build and test entries, coordinator and README docs |
 | [2026-10-21](https://github.com/wbniv/WorldFoundry/commit/8876f6cd) | Planted Tank screensaver: Java side (PlantedConfig, settings, provider, activity, Dream) |
@@ -7,6 +8,10 @@
 | [2026-10-18](https://github.com/wbniv/WorldFoundry/commit/54f44b51) | Add live aquarium screensaver with per-tank players |
 
 <!--history-meta v1
+80f43e98	author	Will Norris
+80f43e98	added	2
+80f43e98	deleted	2
+80f43e98	files	1
 d1676c33	author	Will Norris
 d1676c33	added	2
 d1676c33	deleted	2

diff --git a/docs/plans/2026-10-21-planted-tank-screensaver/spikes/S1-S2.md b/docs/plans/2026-10-21-planted-tank-screensaver/spikes/S1-S2.md
@@ -2,6 +2,8 @@
 
 Date: 2026‑10‑21. Plan: [Planted Tank screensaver](../../2026-10-21-planted-tank-screensaver.md), Phase 0 rows 0b and 0c. Source read at `4266a44c`. Nothing was built or run: the root disk was full (0 bytes free) when the spike started, and every question here is answered by straight-line code, so reading was enough. The one claim that needs a device log is marked under **Residual risk**.
 
+**Implementation update (2026‑10‑22):** Will approved and the engine now uses the generic launch-override table described below. This spike preserves the names and conclusions from its source snapshot: `BaselineSettings` was renamed to the OAS type `Settings`, and `wfoptions::install` / `registerBaseline` became `registerRuntimeOptions`. The planted APK is built and the shared coordinator is deployed; device verification is still pending.
+
 ## Verdicts
 
 | Spike | Verdict | One line |

diff --git a/docs/plans/2026-10-21-planted-tank-screensaver/spikes/S3.md b/docs/plans/2026-10-21-planted-tank-screensaver/spikes/S3.md
@@ -2,6 +2,8 @@
 
 Plan: [2026‑10‑21 Planted Tank screensaver](../../2026-10-21-planted-tank-screensaver.md), Phase 0d. Read-only investigation on `2026-new-level`, 2026‑10‑21. Nothing was compiled, edited or committed.
 
+**Implementation update (2026‑10‑22):** The later Dream host clears the engine drawer every frame, which hides the strip without changing engine code. The investigation below records what was known before that host path was traced. Desktop and offline checks pass; the device capture remains pending.
+
 ## Verdicts
 
 | Question | Verdict |
